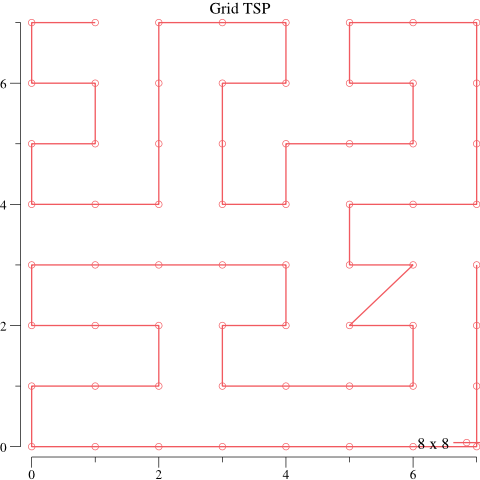
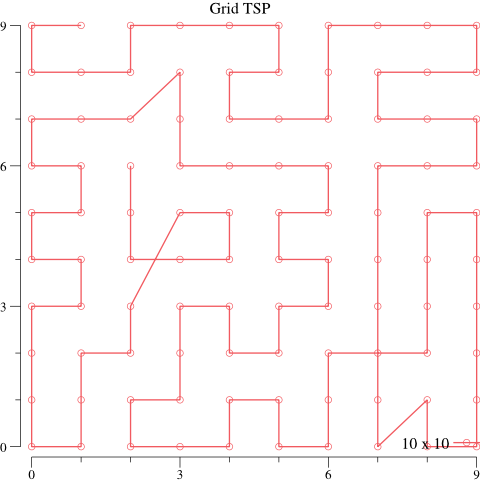
WIP

diff --git a/tsp/capitals/capitals.go b/tsp/capitals/capitals.go
@@ -1,90 +1,93 @@
 package main
 
 import (
-    "encoding/csv"
-    "fmt"
-    "io"
-    "math"
-    "os"
-    "strconv"
+	"encoding/csv"
+	"fmt"
+	"io"
+	"math"
+	"os"
+	"strconv"
 
-    "github.com/MaxHalford/gago/presets"
-    "github.com/gonum/plot"
-    "github.com/gonum/plot/plotter"
-    "github.com/gonum/plot/plotutil"
-    "github.com/gonum/plot/vg"
+	"github.com/MaxHalford/gago/presets"
+	"github.com/gonum/plot"
+	"github.com/gonum/plot/plotter"
+	"github.com/gonum/plot/plotutil"
+	"github.com/gonum/plot/vg"
 )
 
 type point struct {
-    x, y float64
+	x, y float64
 }
 
 func euclidian(a, b point) float64 {
-    return math.Sqrt(math.Pow(a.x-b.x, 2) + math.Pow(a.y-b.y, 2))
+	return math.Sqrt(math.Pow(a.x-b.x, 2) + math.Pow(a.y-b.y, 2))
 }
 
 var (
-    file   = "capitals.csv"
-    points = make(map[string]point)
+	file   = "capitals.csv"
+	points = make(map[string]point)
 )
 
 func init() {
-    var f, _ = os.Open(file)
-    defer f.Close()
-    var rows = csv.NewReader(f)
-    // Skip header
-    rows.Read()
-    for {
-        var row, err = rows.Read()
-        if err == io.EOF {
-            return
-        }
-        var name = row[1]
-        var lat, _ = strconv.ParseFloat(row[2], 64)
-        var lon, _ = strconv.ParseFloat(row[3], 64)
-        points[name] = point{lat, lon}
-    }
+	var f, _ = os.Open(file)
+	defer f.Close()
+	var rows = csv.NewReader(f)
+	// Skip header
+	rows.Read()
+	for {
+		var row, err = rows.Read()
+		if err == io.EOF {
+			return
+		}
+		var name = row[1]
+		var lat, _ = strconv.ParseFloat(row[2], 64)
+		var lon, _ = strconv.ParseFloat(row[3], 64)
+		points[name] = point{lat, lon}
+	}
 }
 
 func distance(trip []string) float64 {
-    var total = 0.0
-    for i := 0; i < len(trip)-1; i++ {
-        total += euclidian(points[trip[i]], points[trip[i+1]])
-    }
-    return total
+	var total = 0.0
+	for i := 0; i < len(trip)-1; i++ {
+		total += euclidian(points[trip[i]], points[trip[i+1]])
+	}
+	return total
 }
 
 func graph(P []string) {
-    var XY = make(plotter.XYs, len(P))
-    for i, p := range P {
-        // Store the best fitness for plotting
-        XY[i].X = points[p].x
-        XY[i].Y = points[p].y
-    }
-    var p, _ = plot.New()
-    p.Title.Text = "Capitals TSP"
-    plotutil.AddLinePoints(p, "Path", XY)
-    // Save the plot to a PNG file.
-    if err := p.Save(5*vg.Inch, 5*vg.Inch, "capitals.png"); err != nil {
-        panic(err)
-    }
+	var XY = make(plotter.XYs, len(P))
+	for i, p := range P {
+		// Store the best fitness for plotting
+		XY[i].X = points[p].x
+		XY[i].Y = points[p].y
+	}
+	var p, _ = plot.New()
+	p.Title.Text = "Capitals TSP"
+	plotutil.AddLinePoints(p, "Path", XY)
+	// Save the plot to a PNG file.
+	if err := p.Save(5*vg.Inch, 5*vg.Inch, "capitals.png"); err != nil {
+		panic(err)
+	}
 }
 
 func main() {
-    // Get the names of the points
-    var names []string
-    for name := range points {
-        names = append(names, name)
-    }
-    // Create the GA
-    var ga = presets.TSP(names, distance)
-    ga.Initialize()
-    // Enhance
-    for i := 0; i < 10000; i++ {
-        fmt.Println(ga.Best.Fitness)
-        ga.Enhance()
-    }
-    // Extract the genome of the best individual
-    var points = ga.Best.Genome.CastString()
-    graph(points)
+	// Get the names of the points
+	var names []string
+	for name := range points {
+		names = append(names, name)
+	}
+	// Create the GA
+	var ga = presets.TSP(names, distance)
+	ga.Initialize()
+	// Enhance
+	for i := 0; i < 10000; i++ {
+		fmt.Println(ga.Best.Fitness)
+		ga.Enhance()
+	}
+	// Extract the genome of the best individual
+	var points = make([]string, len(names))
+	for i, gene := range ga.Best.Genome {
+		points[i] = gene.(string)
+	}
+	graph(points)
 }

diff --git a/math-functions/sphere/sphere.go b/math-functions/sphere/sphere.go
@@ -1,30 +1,30 @@
 package main
 
 import (
-    "fmt"
-    m "math"
+	"fmt"
+	m "math"
 
-    "github.com/MaxHalford/gago/presets"
+	"github.com/MaxHalford/gago/presets"
 )
 
 // Sphere function minimum is 0 reached in (0, ..., 0).
 // Any search domain is fine.
 func sphere(X []float64) float64 {
-    sum := 0.0
-    for _, x := range X {
-        sum += m.Pow(x, 2)
-    }
-    return sum
+	sum := 0.0
+	for _, x := range X {
+		sum += m.Pow(x, 2)
+	}
+	return sum
 }
 
 func main() {
-    // Instantiate a GA with 2 variables and the fitness function
-    var ga = presets.Float(2, sphere)
-    ga.Initialize()
-    // Enhancement
-    for i := 0; i < 10; i++ {
-        ga.Enhance()
-    }
-    // Display the best obtained solution
-    fmt.Printf("The best obtained solution is %f\n", ga.Best.Fitness)
+	// Instantiate a GA with 2 variables and the fitness function
+	var ga = presets.Float(2, sphere)
+	ga.Initialize()
+	// Enhancement
+	for i := 0; i < 1000; i++ {
+		ga.Enhance()
+	}
+	// Display the best obtained solution
+	fmt.Printf("The best obtained solution is %f\n", ga.Best.Fitness)
 }

diff --git a/tsp/grid/grid.go b/tsp/grid/grid.go
@@ -22,7 +22,7 @@ func euclidian(a, b point) float64 {
 }
 
 var (
-	size   = 8
+	size   = 10
 	points = make(map[string]point)
 )
 
@@ -71,11 +71,17 @@ func main() {
 	var ga = presets.TSP(names, distance)
 	ga.Initialize()
 	// Enhance
-	for i := 0; i < 30000; i++ {
+	for i := 0; i < 10000; i++ {
 		ga.Enhance()
 	}
-	fmt.Println(ga.Best.Fitness)
+	var optimal = float64((size + 1) * (size - 1))
+	fmt.Printf("Obtained %f\n", ga.Best.Fitness)
+	fmt.Printf("Optimal is %d\n", int(optimal))
+	fmt.Printf("Off by %f percent\n", 100*(ga.Best.Fitness-optimal)/optimal)
 	// Extract the genome of the best individual
-	var points = ga.Best.Genome.CastString()
+	var points = make([]string, len(names))
+	for i, gene := range ga.Best.Genome {
+		points[i] = gene.(string)
+	}
 	graph(points)
 }

diff --git a/tsp/waldo/waldo.go b/tsp/waldo/waldo.go
@@ -80,11 +80,14 @@ func main() {
 	var ga = presets.TSP(names, distance)
 	ga.Initialize()
 	// Enhance
-	for i := 0; i < 2000; i++ {
+	for i := 0; i < 1000; i++ {
 		ga.Enhance()
 	}
 	fmt.Println(ga.Best.Fitness)
 	// Extract the genome of the best individual
-	var points = ga.Best.Genome.CastString()
+	var points = make([]string, len(names))
+	for i, gene := range ga.Best.Genome {
+		points[i] = gene.(string)
+	}
 	graph(points)
 }
